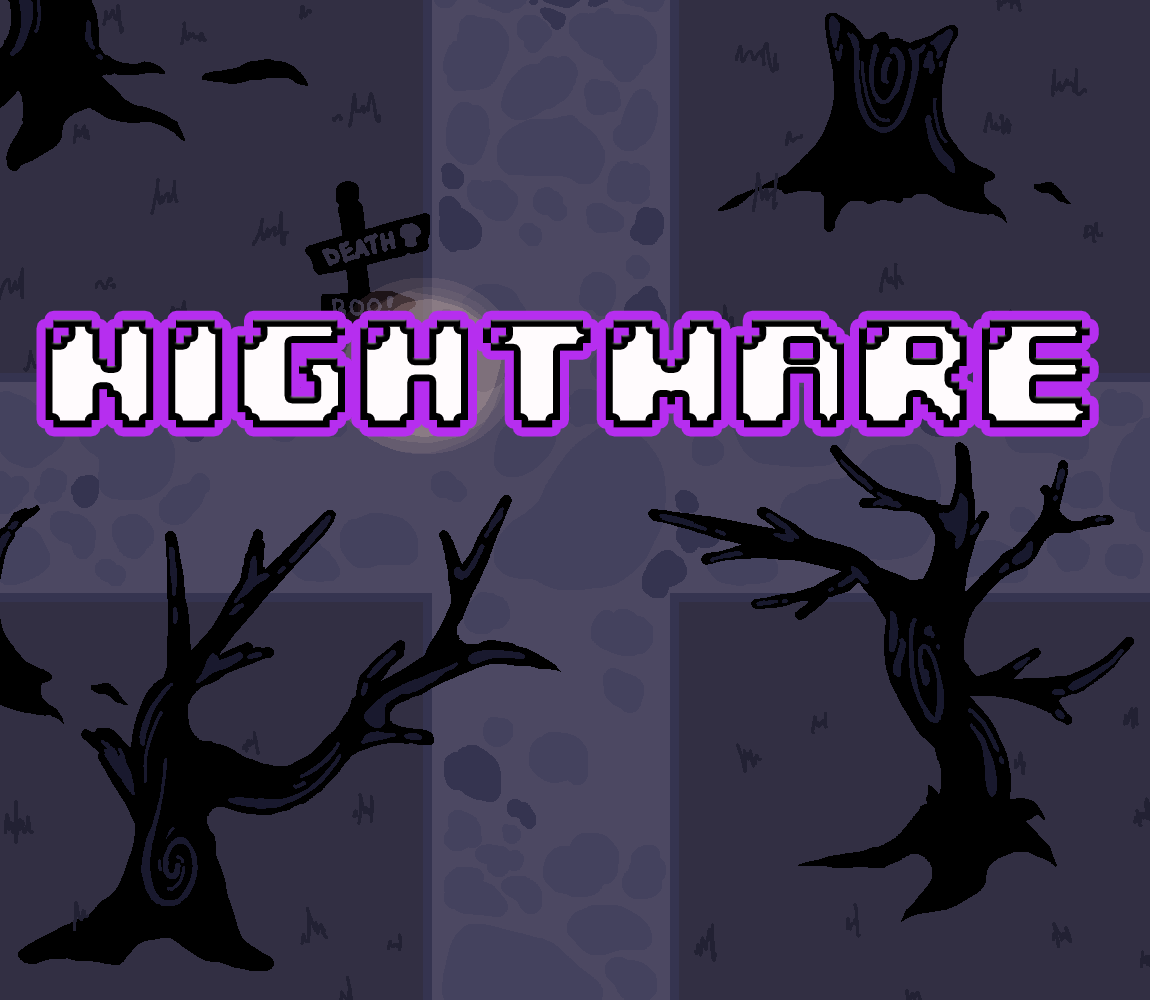
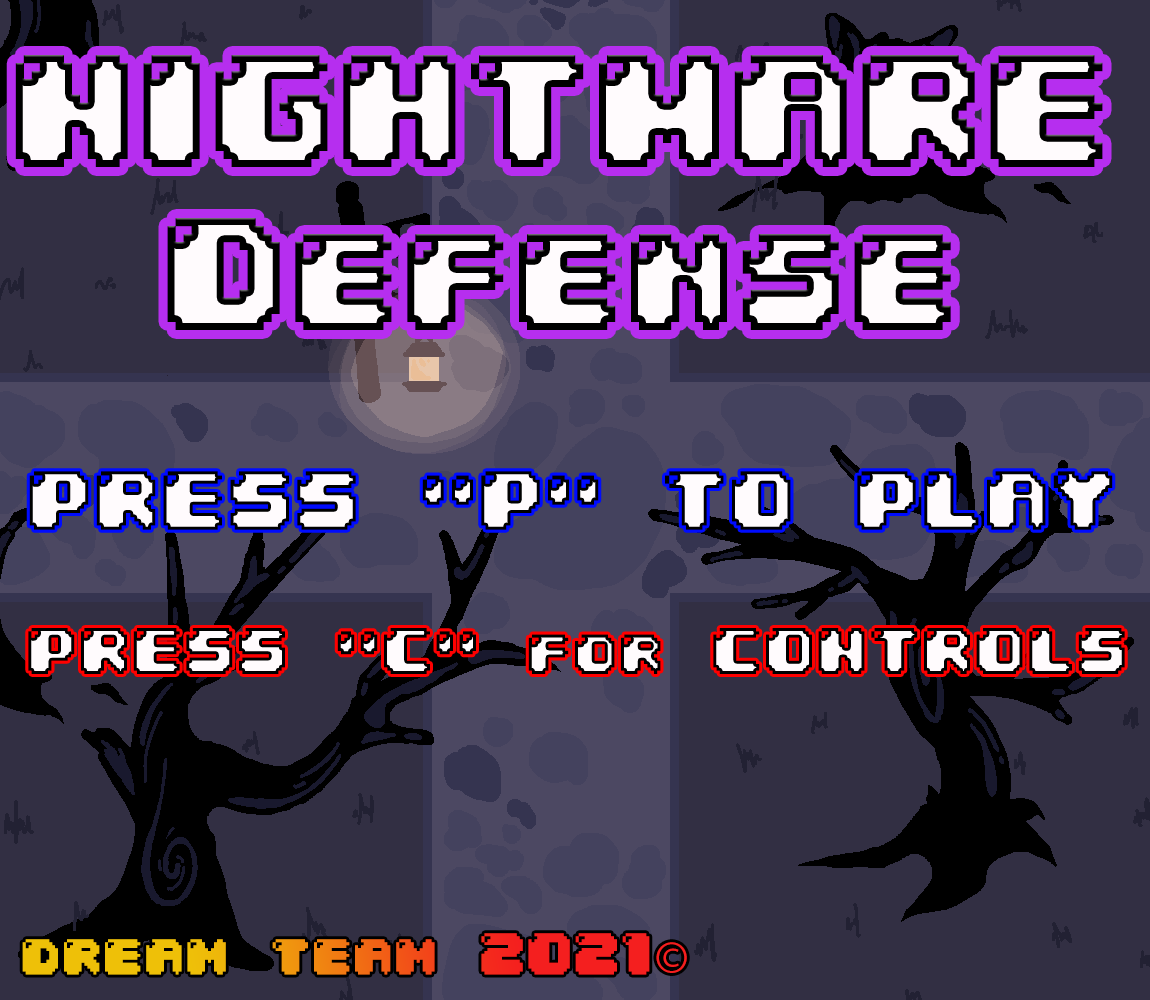
edited scenes, and added controls and game over

diff --git a/src/scenes/Menu.js b/src/scenes/Menu.js
@@ -11,14 +11,19 @@ class Menu extends Phaser.Scene{
     create()
     {
         this.title = this.add.tileSprite(0, 0, 1150, 1000, 'title_screen').setOrigin(0, 0);
-        keySPACE = this.input.keyboard.addKey(Phaser.Input.Keyboard.KeyCodes.SPACE);
+        keyP = this.input.keyboard.addKey(Phaser.Input.Keyboard.KeyCodes.P);
+        keyC = this.input.keyboard.addKey(Phaser.Input.Keyboard.KeyCodes.C);
     }
 
     update()
     {
-        if(keySPACE.isDown)
+        if(keyP.isDown)
         {
             this.scene.start("playScene");
+        }
+        if(keyC.isDown)
+        {
+            this.scene.start("ControlScene");
         }
     }
 }

diff --git a/src/scenes/GameOver.js b/src/scenes/GameOver.js
@@ -5,16 +5,25 @@ class GameOver extends Phaser.Scene{
 
     preload()
     {
-
+        this.load.image('END', 'assets/endscreen.png');
     }
 
     create()
     {
-
+        this.title = this.add.tileSprite(0, 0, 1150, 1000, 'END').setOrigin(0, 0);
+        keyM = this.input.keyboard.addKey(Phaser.Input.Keyboard.KeyCodes.M);
+        keyR = this.input.keyboard.addKey(Phaser.Input.Keyboard.KeyCodes.R);
     }
 
     update()
     {
-        
+        if(keyM.isDown)
+        {
+            this.scene.start("menuScene");
+        }
+        if(keyR.isDown)
+        {
+            this.scene.start("playScene");
+        }
     }
 }

diff --git a/src/scenes/Control.js b/src/scenes/Control.js
@@ -1,0 +1,24 @@
+class Control extends Phaser.Scene{
+    constructor(){
+        super("ControlScene");
+    }
+
+    preload()
+    {
+        this.load.image('Controls', 'assets/controlscene.png')
+    }
+
+    create()
+    {
+        this.title = this.add.tileSprite(0, 0, 1150, 1000, 'Controls').setOrigin(0, 0);
+        keyM = this.input.keyboard.addKey(Phaser.Input.Keyboard.KeyCodes.M);
+    }
+
+    update()
+    {
+        if(keyM.isDown)
+        {
+            this.scene.start("menuScene");
+        }
+    }
+}

diff --git a/src/scenes/Play.js b/src/scenes/Play.js
@@ -41,11 +41,11 @@ class Play extends Phaser.Scene {
 
         this.input.keyboard.on('keydown-Q', () => 
         { 
-            this.currentWeapon = 'waterball';
+            this.currentWeapon = 'lightning';
         });
         this.input.keyboard.on('keydown-W', () => 
         { 
-            this.currentWeapon = 'lightning';
+            this.currentWeapon = 'waterball';
         });
 
 

diff --git a/index.html b/index.html
@@ -9,6 +9,7 @@
     <script src="lib/phaser.js"></script>
     <script src="src/prefabs/Player.js"></script>
     <script src="src/prefabs/Zombie.js"></script>
+    <script src="src/scenes/Control.js"></script>
     <script src="src/scenes/GameOver.js"></script>
     <script src="src/scenes/Menu.js"></script>
     <script src="src/scenes/Play.js"></script>

diff --git a/src/main.js b/src/main.js
@@ -8,12 +8,12 @@ let config = {
 
         }
     },
-    scene : [ Menu, Play]
+    scene : [ Menu ,Control, Play, GameOver]
 }
 var game = new Phaser.Game(config);
 
 
-let keySPACE, input, mouse;
+let keySPACE, input, mouse, keyP, keyC, keyM, keyR;
 
 let centerX = game.config.width/2;
 let centerY = game.config.height/2;
